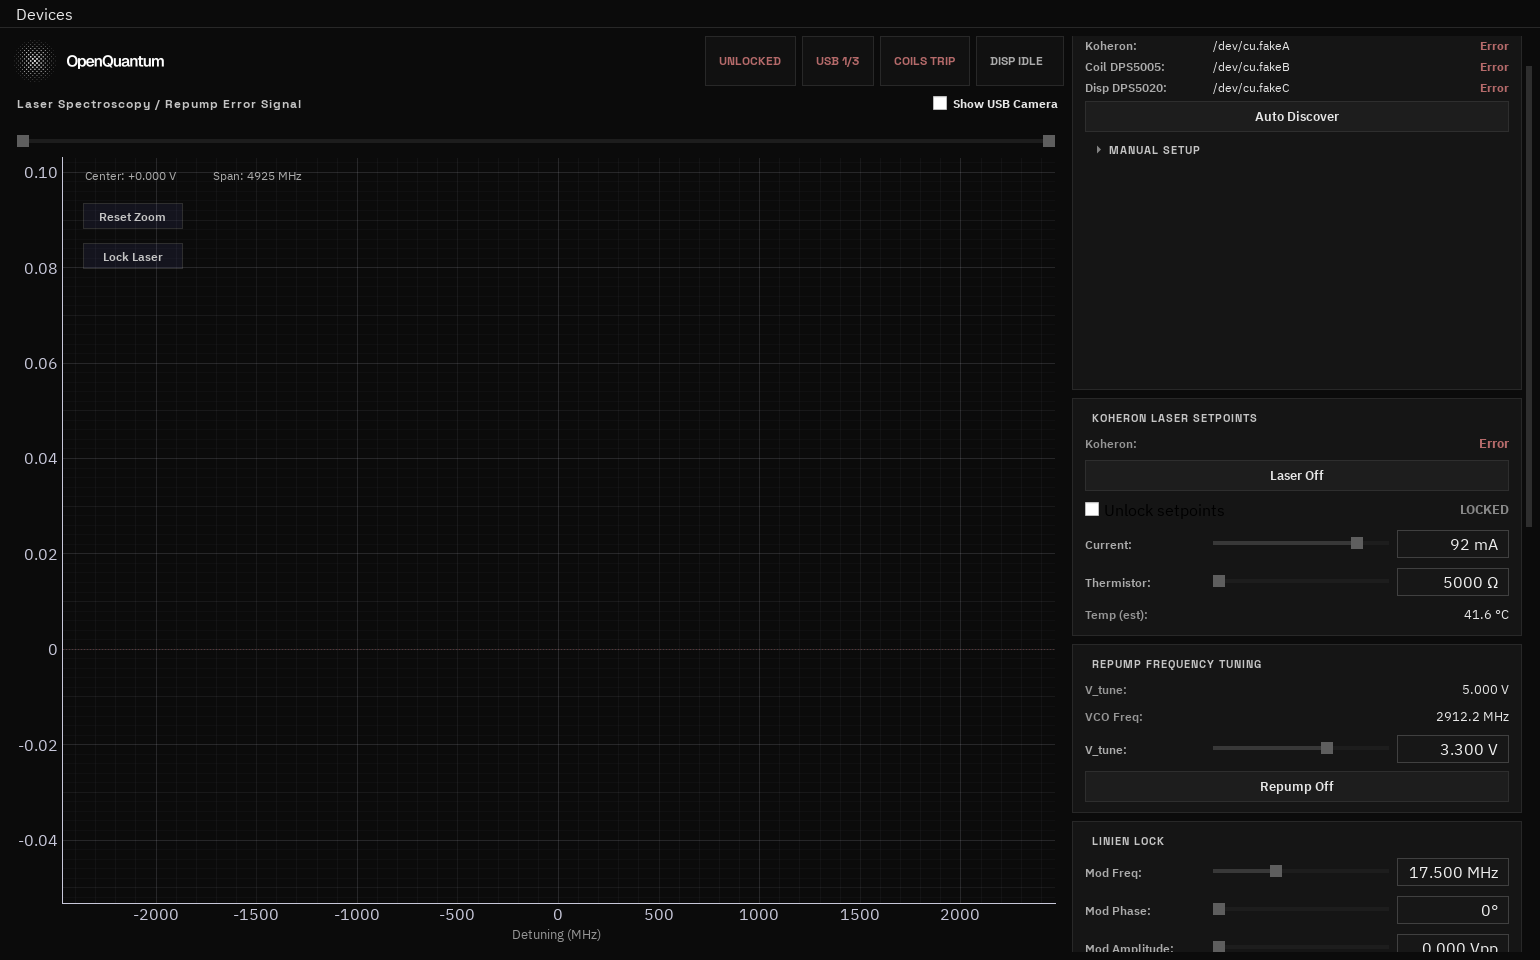
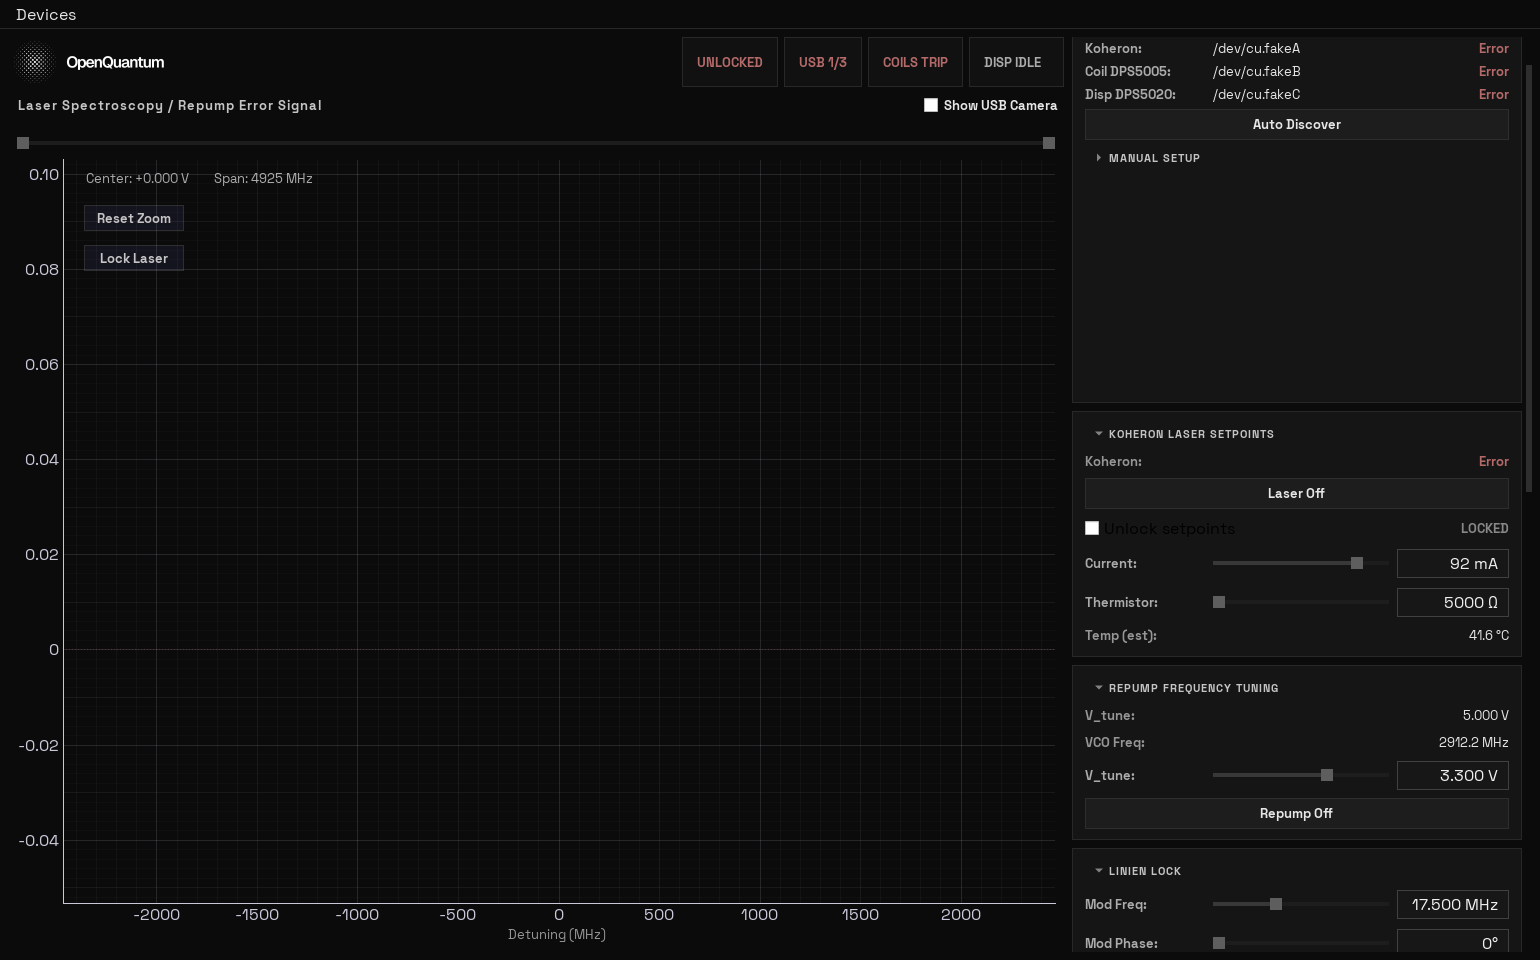
One type scale, one family, every card a dropdown
Seven font sizes collapse to three: 11px labels, 13px body, 20px
readouts. Space Grotesk is now the single family -- IBM Plex Sans is
still bundled and registered, just no longer used for body text.

Laser, repump, lock, power supplies and config become CollapsibleCards
like the device and log cards already were, so every card behaves the
same way. Their separate section-title labels go, since the card header
now carries the title.

Error-signal filters are inline in the Linien Lock card rather than a
collapsible section of it: a dropdown inside a dropdown is one level of
nesting too many, and the card itself already collapses.

diff --git a/mot_control.py b/mot_control.py
@@ -91,7 +91,7 @@ def logs_dir():
 
 # App typography: IBM Plex Sans for body text, Space Grotesk for titles.
 FONTS_DIR = resource_path("fonts")
-BODY_FONT_FAMILY = "IBM Plex Sans"
+BODY_FONT_FAMILY = "Space Grotesk"
 TITLE_FONT_FAMILY = "Space Grotesk"
 # Header wordmark height. The asset is 2048x568, so this keeps the mark
 # about the same optical weight as the 22px text it replaced.
@@ -275,7 +275,7 @@ COMBO_STYLE = """
         border: 1px solid #404040;
         border-radius: 0px;
         padding: 2px 6px;
-        font-size: 12px;
+        font-size: 13px;
     }
     QComboBox:focus {
         color: white;
@@ -435,6 +435,12 @@ class CollapsibleCard(QtWidgets.QFrame):
         margin = (12, 10, 12, 10) if framed else (0, 0, 0, 0)
         outer.setContentsMargins(*margin)
         outer.setSpacing(6)
+        # Cards size to their content. Without this the last card in a
+        # top-aligned column absorbs the leftover height and shows a tall
+        # blank area under a collapsed section.
+        self.setSizePolicy(
+            QtWidgets.QSizePolicy.Preferred, QtWidgets.QSizePolicy.Maximum
+        )
 
         header = QtWidgets.QHBoxLayout()
         header.setSpacing(8)
@@ -506,7 +512,7 @@ class CameraViewWidget(QtWidgets.QWidget):
         header.setSpacing(8)
         title = QtWidgets.QLabel("USB CAMERA")
         title.setStyleSheet(
-            f"color: {NEON_BLUE}; font-size: 12px; font-weight: 700;"
+            f"color: {NEON_BLUE}; font-size: 13px; font-weight: 700;"
             "letter-spacing: 1px; border: none; padding: 4px 6px;"
             f'font-family: "{TITLE_FONT_FAMILY}";'
         )
@@ -528,7 +534,7 @@ class CameraViewWidget(QtWidgets.QWidget):
         self.message_label = QtWidgets.QLabel("No USB camera found")
         self.message_label.setAlignment(QtCore.Qt.AlignCenter)
         self.message_label.setStyleSheet(
-            "color: #ababab; font-size: 16px; font-weight: 700;"
+            "color: #ababab; font-size: 13px; font-weight: 700;"
             "border: 1px solid #282828; border-radius: 0px;"
             "background: #0b0b0b; padding: 24px;"
         )
@@ -712,7 +718,7 @@ class DispenserOverrideDialog(QtWidgets.QDialog):
             "overloading the pump."
         )
         note.setWordWrap(True)
-        note.setStyleSheet("color: #cc8830; border: none; font-size: 12px;")
+        note.setStyleSheet("color: #cc8830; border: none; font-size: 13px;")
         root.addWidget(note)
 
         button_row = QtWidgets.QHBoxLayout()
@@ -776,7 +782,7 @@ class PidDialog(QtWidgets.QDialog):
             + ("" if current else " Current values could not be read.")
         )
         note.setWordWrap(True)
-        note.setStyleSheet("color: #969696; border: none; font-size: 12px;")
+        note.setStyleSheet("color: #969696; border: none; font-size: 13px;")
         root.addWidget(note)
 
         button_row = QtWidgets.QHBoxLayout()
@@ -935,7 +941,7 @@ class OpenQuantumControlsWindow(QtWidgets.QMainWindow):
         chip = self.health_chips[key]
         chip.setText(text)
         chip.setStyleSheet(
-            f"color: {color}; font-size: 12px; font-weight: 700;"
+            f"color: {color}; font-size: 13px; font-weight: 700;"
             "border: 1px solid #282828; border-radius: 0px;"
             "padding: 5px 10px; background: #111111;"
             f'font-family: "{TITLE_FONT_FAMILY}";'
@@ -1106,7 +1112,7 @@ class OpenQuantumControlsWindow(QtWidgets.QMainWindow):
             # wordmark as text rather than showing an empty header.
             self.title_label.setText("OpenQuantum")
             self.title_label.setStyleSheet(
-                f"color: {ACCENT}; font-size: 22px; font-weight: 700;"
+                f"color: {ACCENT}; font-size: 20px; font-weight: 700;"
                 "letter-spacing: 3px; border: none; padding: 4px 6px;"
                 f'font-family: "{TITLE_FONT_FAMILY}";'
             )
@@ -1153,7 +1159,7 @@ class OpenQuantumControlsWindow(QtWidgets.QMainWindow):
             "Laser Spectroscopy / Repump Error Signal"
         )
         spectroscopy_label.setStyleSheet(
-            f"color: {NEON_BLUE}; font-size: 12px; font-weight: 700;"
+            f"color: {NEON_BLUE}; font-size: 13px; font-weight: 700;"
             "letter-spacing: 1px; border: none; padding: 4px 6px;"
             f'font-family: "{TITLE_FONT_FAMILY}";'
         )
@@ -1162,7 +1168,7 @@ class OpenQuantumControlsWindow(QtWidgets.QMainWindow):
         self.camera_toggle = QtWidgets.QCheckBox("Show USB Camera")
         self.camera_toggle.setCursor(QtCore.Qt.PointingHandCursor)
         self.camera_toggle.setStyleSheet(
-            "QCheckBox { color: #e6e6e6; font-size: 12px; font-weight: 700;"
+            "QCheckBox { color: #e6e6e6; font-size: 13px; font-weight: 700;"
             "border: none; padding: 4px 6px; }"
             "QCheckBox::indicator { width: 14px; height: 14px; }"
         )
@@ -1205,7 +1211,7 @@ class OpenQuantumControlsWindow(QtWidgets.QMainWindow):
         psd_bar.setSpacing(8)
         psd_title = QtWidgets.QLabel("Lock Noise PSD")
         psd_title.setStyleSheet(
-            f"color: {NEON_BLUE}; font-size: 12px; font-weight: 700;"
+            f"color: {NEON_BLUE}; font-size: 13px; font-weight: 700;"
             "letter-spacing: 1px; border: none; padding: 4px 6px;"
             f'font-family: "{TITLE_FONT_FAMILY}";'
         )
@@ -1213,7 +1219,7 @@ class OpenQuantumControlsWindow(QtWidgets.QMainWindow):
         psd_bar.addStretch()
         self.psd_view_status = QtWidgets.QLabel("")
         self.psd_view_status.setStyleSheet(
-            "color: #ababab; font-size: 12px; font-weight: 700;"
+            "color: #ababab; font-size: 13px; font-weight: 700;"
             "border: none; padding: 4px 6px;"
         )
         psd_bar.addWidget(self.psd_view_status)
@@ -1543,14 +1549,14 @@ class OpenQuantumControlsWindow(QtWidgets.QMainWindow):
         row.addWidget(self._small_label(label_text))
         value = QtWidgets.QLabel(edit.text())
         value.setStyleSheet(
-            "color: #e6e6e6; font-size: 12px; border: none;"
+            "color: #e6e6e6; font-size: 13px; border: none;"
         )
         value.setAlignment(QtCore.Qt.AlignLeft | QtCore.Qt.AlignVCenter)
         edit.textChanged.connect(value.setText)
         row.addWidget(value, stretch=1)
         status = QtWidgets.QLabel("--")
         status.setStyleSheet(
-            "color: #ababab; font-size: 12px; font-weight: 700; border: none;"
+            "color: #ababab; font-size: 13px; font-weight: 700; border: none;"
         )
         # _set_usb_status_label abbreviates to fit this column.
         status.setFixedWidth(84)
@@ -1582,17 +1588,19 @@ class OpenQuantumControlsWindow(QtWidgets.QMainWindow):
         )
 
     def _add_filter_section(self, parent):
-        """Error-signal filters, nested as a collapsible section of the
-        Linien Lock card rather than a card of its own."""
-        card = CollapsibleCard(
-            "Error Signal Filters", collapsed=True, framed=False
-        )
-        self.filter_card = card
-        layout = card.content_layout
+        """Error-signal filters, inline in the Linien Lock card.
+
+        Not collapsible: a dropdown inside a dropdown is a level of
+        nesting too many, and the whole card already collapses.
+        """
+        layout = parent
+        title = make_section_title("Error Signal Filters")
+        layout.addWidget(title)
         self._tip(
             "Linien's two IIR filter stages applied to the demodulated\n"
             "error signal (channel A).",
-            card.toggle_btn,
+            title,
+            help_cursor=True,
         )
 
         self.filter_auto_check = QtWidgets.QCheckBox(
@@ -1601,7 +1609,7 @@ class OpenQuantumControlsWindow(QtWidgets.QMainWindow):
         self.filter_auto_check.setChecked(True)
         self.filter_auto_check.setCursor(QtCore.Qt.PointingHandCursor)
         self.filter_auto_check.setStyleSheet(
-            "QCheckBox { color: #e6e6e6; font-size: 12px; border: none; }"
+            "QCheckBox { color: #e6e6e6; font-size: 13px; border: none; }"
             "QCheckBox::indicator { width: 14px; height: 14px; }"
         )
         self.filter_auto_check.toggled.connect(self._on_filter_changed)
@@ -1618,7 +1626,7 @@ class OpenQuantumControlsWindow(QtWidgets.QMainWindow):
             enabled = QtWidgets.QCheckBox(f"Filter {index}")
             enabled.setCursor(QtCore.Qt.PointingHandCursor)
             enabled.setStyleSheet(
-                "QCheckBox { color: #e6e6e6; font-size: 12px; border: none; }"
+                "QCheckBox { color: #e6e6e6; font-size: 13px; border: none; }"
                 "QCheckBox::indicator { width: 14px; height: 14px; }"
             )
             type_combo = QtWidgets.QComboBox()
@@ -1659,12 +1667,10 @@ class OpenQuantumControlsWindow(QtWidgets.QMainWindow):
         )
 
         self._update_filter_rows_enabled()
-        parent.addWidget(card)
 
     def _add_config_card(self, parent):
-        card = make_card()
-        layout = card.layout()
-        layout.addWidget(make_section_title("Config"))
+        card = CollapsibleCard("Config", collapsed=True)
+        layout = card.content_layout
         config_row = QtWidgets.QHBoxLayout()
         config_row.setSpacing(6)
         self.save_config_btn = QtWidgets.QPushButton("Save Config As...")
@@ -1711,9 +1717,8 @@ class OpenQuantumControlsWindow(QtWidgets.QMainWindow):
         parent.addWidget(card)
 
     def _add_lock_card(self, parent):
-        card = make_card()
-        layout = card.layout()
-        layout.addWidget(make_section_title("Linien Lock"))
+        card = CollapsibleCard("Linien Lock", collapsed=False)
+        layout = card.content_layout
 
         self.mod_freq_slider, self.mod_freq_edit = add_slider_row(
             layout,
@@ -1843,9 +1848,8 @@ class OpenQuantumControlsWindow(QtWidgets.QMainWindow):
         parent.addWidget(card)
 
     def _add_laser_card(self, parent):
-        card = make_card()
-        layout = card.layout()
-        layout.addWidget(make_section_title("Koheron Laser Setpoints"))
+        card = CollapsibleCard("Koheron Laser Setpoints", collapsed=False)
+        layout = card.content_layout
 
         self.laser_status = add_readout_row(layout, "Koheron:", "No port set")
         self._tip(
@@ -1926,10 +1930,9 @@ class OpenQuantumControlsWindow(QtWidgets.QMainWindow):
         parent.addWidget(card)
 
     def _add_dps_card(self, parent):
-        card = make_card()
+        card = CollapsibleCard("Power Supplies", collapsed=False)
         self.dps_card = card
-        layout = card.layout()
-        layout.addWidget(make_section_title("Power Supplies"))
+        layout = card.content_layout
 
         layout.addWidget(make_section_title("MOT Coils — DPS5005"))
         self.mot_coil_readback = add_readout_row(layout, "Readback:", "--")
@@ -2065,10 +2068,9 @@ class OpenQuantumControlsWindow(QtWidgets.QMainWindow):
         parent.addWidget(card)
 
     def _add_repump_card(self, parent):
-        card = make_card()
+        card = CollapsibleCard("Repump Frequency Tuning", collapsed=False)
         self.repump_card = card
-        layout = card.layout()
-        layout.addWidget(make_section_title("Repump Frequency Tuning"))
+        layout = card.content_layout
 
         self.vtune_readback = add_readout_row(layout, "V_tune:", "--")
         self._tip(
@@ -2136,7 +2138,7 @@ class OpenQuantumControlsWindow(QtWidgets.QMainWindow):
     def _small_label(text):
         label = QtWidgets.QLabel(text)
         label.setStyleSheet(
-            "color: #ababab; font-size: 12px; font-weight: 600; border: none;"
+            "color: #ababab; font-size: 13px; font-weight: 600; border: none;"
         )
         label.setFixedWidth(120)
         return label
@@ -3385,7 +3387,7 @@ class OpenQuantumControlsWindow(QtWidgets.QMainWindow):
         label.setText(text)
         label.setToolTip(status)
         label.setStyleSheet(
-            f"color: {color}; font-size: 12px; font-weight: 700; border: none;"
+            f"color: {color}; font-size: 13px; font-weight: 700; border: none;"
         )
 
     @staticmethod

diff --git a/styles.py b/styles.py
@@ -97,7 +97,7 @@ APP_STYLESHEET = """
     QLabel.readout-label {
         color: #969696;
         font-weight: 600;
-        font-size: 12px;
+        font-size: 13px;
         border: none;
     }
     QLabel.readout-value {
@@ -139,10 +139,10 @@ LOCK_INDICATOR_UNLOCKED = """
         border-radius: 0px;
     }
 """
-LOCK_LABEL_LOCKED = "color: #6f9e7c; font-size: 15px; font-weight: 700; border: none; letter-spacing: 1px;"
-LOCK_LABEL_UNLOCKED = "color: #b56a6a; font-size: 15px; font-weight: 700; border: none; letter-spacing: 1px;"
+LOCK_LABEL_LOCKED = "color: #6f9e7c; font-size: 13px; font-weight: 700; border: none; letter-spacing: 1px;"
+LOCK_LABEL_UNLOCKED = "color: #b56a6a; font-size: 13px; font-weight: 700; border: none; letter-spacing: 1px;"
 
-PD_READOUT_STYLE = "color: white; font-size: 22px; font-weight: 700; border: none;"
+PD_READOUT_STYLE = "color: white; font-size: 20px; font-weight: 700; border: none;"
 
 # ---------------------------------------------------------------------------
 # Big editable number fields
@@ -215,7 +215,7 @@ def add_slider_row(parent_layout, label_text, min_val, max_val, init_val,
     row.setSpacing(8)
 
     label = QtWidgets.QLabel(label_text)
-    label.setStyleSheet("color: #ababab; font-size: 12px; font-weight: 600; border: none;")
+    label.setStyleSheet("color: #ababab; font-size: 13px; font-weight: 600; border: none;")
     label.setAlignment(QtCore.Qt.AlignLeft | QtCore.Qt.AlignVCenter)
     label.setFixedWidth(120)
     row.addWidget(label)
@@ -256,7 +256,7 @@ def add_readout_row(parent_layout, label_text, initial_text="--", unit=""):
     row.setSpacing(8)
 
     label = QtWidgets.QLabel(label_text)
-    label.setStyleSheet("color: #969696; font-size: 12px; font-weight: 600; border: none;")
+    label.setStyleSheet("color: #969696; font-size: 13px; font-weight: 600; border: none;")
     label.setAlignment(QtCore.Qt.AlignLeft | QtCore.Qt.AlignVCenter)
     label.setFixedWidth(120)
     row.addWidget(label)

diff --git a/tests/smoke_ui.py b/tests/smoke_ui.py
@@ -214,15 +214,15 @@ try:
     assert logo.height() >= mot_control.LOGO_HEIGHT_PX
     assert logo.width() > logo.height()  # horizontal lockup
 
-    # Fonts: titles render in Space Grotesk, body in IBM Plex Sans —
+    # One family throughout: Space Grotesk for headings and body alike —
     # verified via the resolved font, not the stylesheet text.
     assert resolved_family(window.usb_card.toggle_btn) == "Space Grotesk"
     section = mot_control.make_section_title("PROBE")
     section.show()
     app.processEvents()
     assert resolved_family(section) == "Space Grotesk"
-    assert resolved_family(window.laser_status) == "IBM Plex Sans"
-    assert resolved_family(window.dispenser_fire_btn) == "IBM Plex Sans"
+    assert resolved_family(window.laser_status) == "Space Grotesk"
+    assert resolved_family(window.dispenser_fire_btn) == "Space Grotesk"
 
     # Unit suffixes on the previously unitless fields.
     assert window.mod_freq_edit.text().endswith(" MHz")
@@ -510,7 +510,8 @@ try:
     assert pid_default.values() == (50, 5, 0)  # linien defaults
 
     # --- Error signal filter card ---
-    assert not window.filter_card.content.isVisibleTo(window.filter_card)
+    # Filters are inline in the Linien Lock card, not a nested dropdown.
+    assert not hasattr(window, "filter_card")
     assert window.filter_auto_check.isChecked()  # linien default: automatic
     assert not window.filter1_freq_spin.isEnabled()  # manual rows locked
     window.filter_auto_check.setChecked(False)

diff --git a/linien_widget.py b/linien_widget.py
@@ -120,7 +120,7 @@ class LinienWidget(QtWidgets.QWidget):
 
         # --- Overlay labels ---
         vb = self.plot.getViewBox()
-        overlay_label_style = "color: #ababab; background: transparent; font-size: 12px; border: none;"
+        overlay_label_style = "color: #ababab; background: transparent; font-size: 13px; border: none;"
 
         self.center_label = QtWidgets.QLabel("Center: 0.000 V")
         self.center_label.setStyleSheet(overlay_label_style)
@@ -142,7 +142,7 @@ class LinienWidget(QtWidgets.QWidget):
             QPushButton {
                 background-color: rgba(20,20,30,200); color: #c4c4c4;
                 border: 1px solid #2e2e2e; border-radius: 0px;
-                font-size: 12px; padding: 3px 8px;
+                font-size: 13px; padding: 3px 8px;
             }
             QPushButton:hover { background-color: rgba(40,40,60,220); color: white; }
         """
